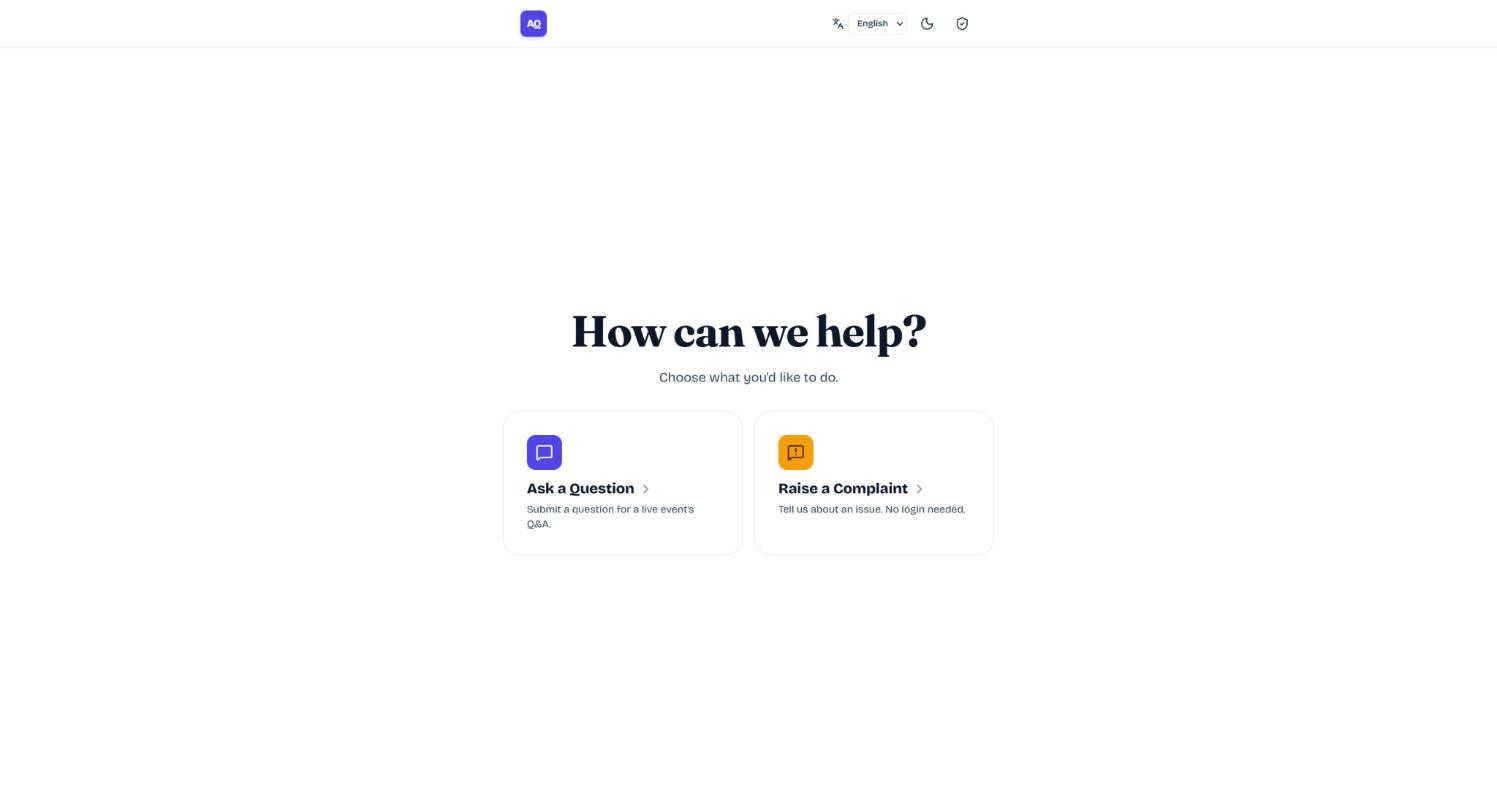
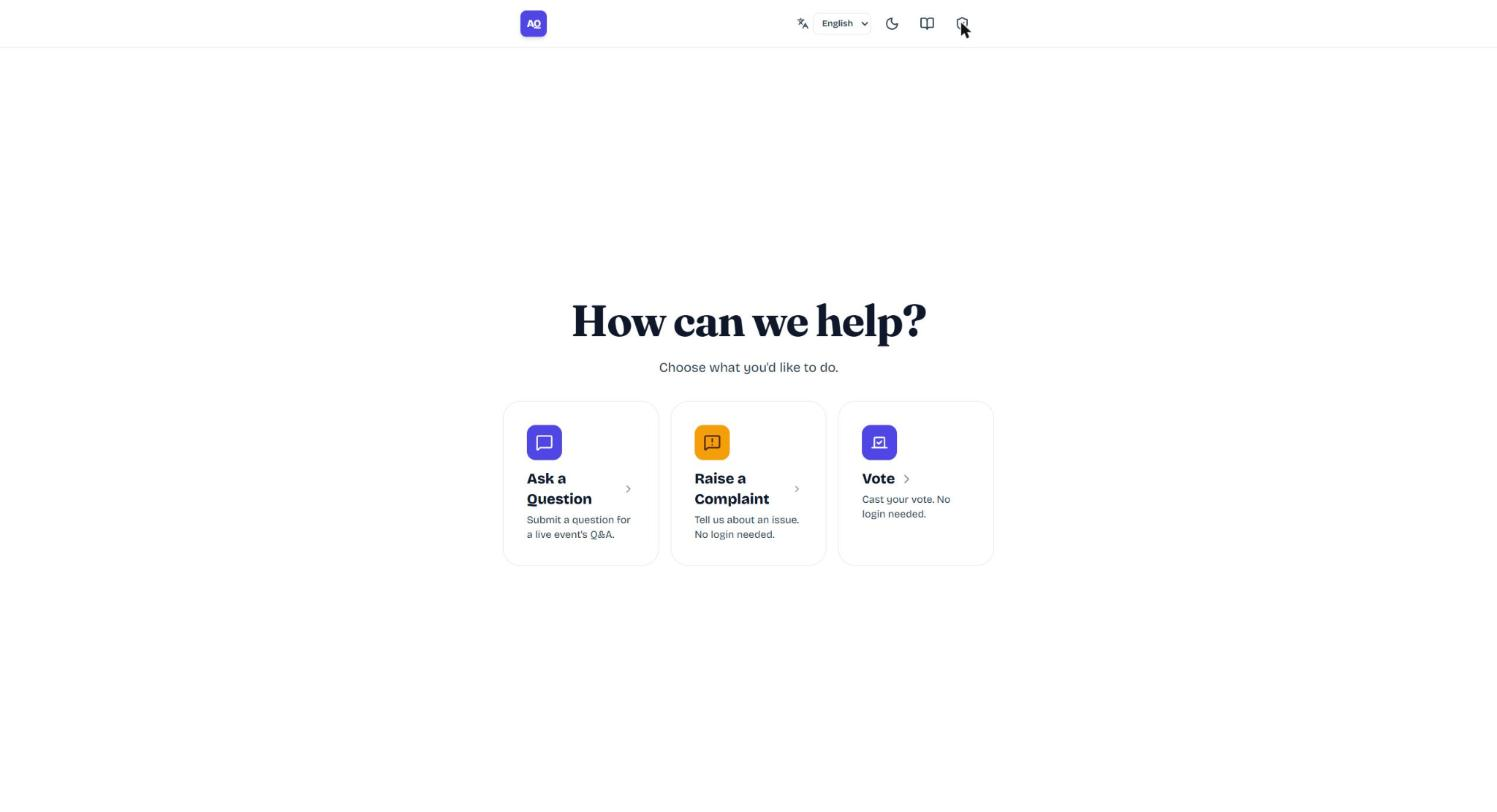
docs: add voting to the guide, fix one-way Stage cross-link
- New "Voting" section in /guide with real screenshots covering all 4
  modules (Manage Votings, the public vote screen, Vote Monitor flagging
  a shared-device vote, and the live Vote Results Stage). Overview section
  and its chooser screenshot updated for the chooser's third card.
- Added a link from the Q&A Stage view to /vote/stage -- it previously
  only worked the other way around.

Changed region(s): [[0.338, 0.5234, 0.6453, 0.6773], [0.3687, 0.3695, 0.6146, 0.4926], [0.5531, 0.0, 0.5838, 0.0308]]

diff --git a/src/components/GuidePage.tsx b/src/components/GuidePage.tsx
@@ -14,7 +14,8 @@ import React, { useEffect, useRef, useState } from 'react';
 import { Link } from 'react-router-dom';
 import {
   ArrowLeft, Sun, Moon, X, ZoomIn,
-  Compass, MessageSquare, MessageSquareWarning, ShieldCheck, Mic, Monitor, UserCog, LayoutDashboard
+  Compass, MessageSquare, MessageSquareWarning, ShieldCheck, Mic, Monitor, UserCog, LayoutDashboard,
+  Vote as VoteIcon
 } from 'lucide-react';
 
 interface Shot {
@@ -38,10 +39,10 @@ const SECTIONS: Section[] = [
     id: 'overview',
     icon: <Compass className="w-5 h-5" />,
     title: 'Overview',
-    subtitle: 'One link, two jobs: asking a question, or raising a complaint.',
+    subtitle: 'One link, three jobs: asking a question, raising a complaint, or voting.',
     steps: [
       'Everyone starts at the same place: the chooser screen.',
-      'From there, pick "Ask a Question" for a live event’s Q&A, or "Raise a Complaint" to report an issue — no login needed for either.',
+      'From there, pick "Ask a Question" for a live event’s Q&A, "Raise a Complaint" to report an issue, or "Vote" to take part in whatever poll is currently open — no login needed for any of them.',
       'Staff (moderator, panel, stage, admin, management) sign in from within those same screens to reach their own view.'
     ],
     shots: [{ src: '/guide/chooser.jpg', alt: 'Chooser screen', caption: 'The chooser screen — everyone’s starting point' }]
@@ -81,6 +82,25 @@ const SECTIONS: Section[] = [
     ]
   },
   {
+    id: 'voting',
+    icon: <VoteIcon className="w-5 h-5" />,
+    title: 'Voting',
+    subtitle: 'E.g. picking a theme song — no account needed to vote, plus a staff setup, review, and live results screen.',
+    steps: [
+      'An admin sets this up first, from "Manage Votings" in the Moderator screen: write a question, add 2 or more options, then open it to the public. More than one voting can be open at once.',
+      'Choose "Vote" from the chooser — with one voting open it goes straight to the options, with more than one it asks which poll first.',
+      'Pick an option, then confirm with a name, phone number, and date of birth. One vote per phone number per voting — changing the name (even just the case) doesn’t open a second vote.',
+      'Staff review every vote in "Vote Monitor," where suspicious patterns (e.g. the same device behind several different phone numbers) are auto-flagged for a human to invalidate if they turn out to be fake.',
+      'The results project live, bar by bar, on the Vote Results Stage screen (/vote/stage) — a link next to the Q&A Stage’s fullscreen button jumps straight there.'
+    ],
+    shots: [
+      { src: '/guide/voting-manager.jpg', alt: 'Manage Votings', caption: 'Admin: setting up a voting and watching its live counts' },
+      { src: '/guide/vote-options.jpg', alt: 'Vote options', caption: 'The public vote screen — pick an option, no login' },
+      { src: '/guide/vote-monitor.jpg', alt: 'Vote Monitor', caption: 'Staff review: a shared-device vote auto-flagged for a closer look' },
+      { src: '/guide/vote-stage.jpg', alt: 'Vote Results Stage', caption: 'Live results, projected for the room' }
+    ]
+  },
+  {
     id: 'moderator',
     icon: <ShieldCheck className="w-5 h-5" />,
     title: 'Moderator',
@@ -89,7 +109,7 @@ const SECTIONS: Section[] = [
       'Sign in from the Ask a Question screen (Login, top right).',
       'The Review Inbox lists every pending question across all events.',
       'Approve, reject, star (priority), edit, or delete a question — or send it straight to the panel queue.',
-      'Also manages events, topic categories, and event branding (logo/banners) from the same dashboard.'
+      'Also manages events, topic categories, event branding, and (with Vote Monitor) reviewing cast votes — all from the same dashboard. Setting up a voting itself is admin-only; see Voting above.'
     ],
     shots: [{ src: '/guide/moderator-inbox.jpg', alt: 'Moderator Review Inbox', caption: 'The Review Inbox — the moderator’s main workspace' }]
   },

diff --git a/src/components/StageView.tsx b/src/components/StageView.tsx
@@ -1,8 +1,9 @@
 import React, { useState, useEffect } from 'react';
 import { useTranslation } from 'react-i18next';
+import { Link } from 'react-router-dom';
 import { QRCodeSVG } from 'qrcode.react';
 import { Question, Category, ConferenceEvent } from '../types';
-import { Sparkles, Monitor, Maximize2, Radio, Clock } from 'lucide-react';
+import { Sparkles, Monitor, Maximize2, Radio, Clock, Vote as VoteIcon } from 'lucide-react';
 import { getLocalizedText } from '../i18n/localizedContent';
 
 interface StageViewProps {
@@ -114,13 +115,22 @@ export const StageView: React.FC<StageViewProps> = ({
           </div>
 
           {/* Display Controls */}
-          <button
-            onClick={toggleFullscreen}
-            className="p-3 rounded-xl bg-indigo-600 hover:bg-indigo-500 text-white font-bold text-xs shadow-md transition shrink-0"
-            title="Toggle Fullscreen Presentation"
-          >
-            <Maximize2 className="w-4 h-4" />
-          </button>
+          <div className="flex items-center gap-2 shrink-0">
+            <Link
+              to="/vote/stage"
+              className="p-3 rounded-xl bg-surface-secondary hover:bg-surface-hover text-secondary border border-divider font-bold text-xs shadow-md transition"
+              title="Switch to Vote Results Stage"
+            >
+              <VoteIcon className="w-4 h-4" />
+            </Link>
+            <button
+              onClick={toggleFullscreen}
+              className="p-3 rounded-xl bg-indigo-600 hover:bg-indigo-500 text-white font-bold text-xs shadow-md transition"
+              title="Toggle Fullscreen Presentation"
+            >
+              <Maximize2 className="w-4 h-4" />
+            </button>
+          </div>
         </div>
 
         {/* Audience Join QR Code & Short Code Banner -- always centered on the

diff --git a/TODO.md b/TODO.md
@@ -12,7 +12,7 @@ Things that have been flagged during development but intentionally not acted on 
 
 - **SMS/OTP phone verification**: would make the phone-number dedup airtight against someone using a second real number, same prerequisite as the WhatsApp item above -- needs a paid SMS provider account set up first, not a code blocker. Not started; the current per-phone `UNIQUE` constraint is the only hard anti-duplicate-vote check.
 - **Hindi/Odia translation is question-only.** Option labels (participant/song names) stay English-only by design (see the approved design artifact's Open Question 4) -- extend the same way if a future voting wants translated option labels too.
-- **`/vote/stage`'s "Switch to Q&A Stage" link goes to `/ask`, not directly to the Stage tab.** The existing Q&A Stage view has no addressable URL of its own (it's a tab inside the main app shell, reached after picking an event) -- a follow-up could add one if staff find re-navigating from `/ask` each time annoying.
+- **`/vote/stage`'s "Switch to Q&A Stage" link goes to `/ask`, not directly to the Stage tab**, and the Q&A Stage view's own new link to `/vote/stage` is a one-way jump too (no "back" once there beyond browser back). Neither Stage view has an addressable URL for "the currently selected event's Stage tab" to link to directly -- the Q&A Stage view is a tab inside the main app shell, reached after picking an event. A follow-up could add one if staff find the round trip annoying.
 
 ## In progress — resume when Gemini Implementer is back
 

diff --git a/CHANGELOG.md b/CHANGELOG.md
@@ -2,6 +2,11 @@
 
 All notable changes to this project will be documented in this file.
 
+## [2026-10-17] - Voting Added to the Guide, Stage Cross-Link Fix
+
+- **`/guide` now documents the voting feature**: a new "Voting" section (between Raise & Track and Moderator, matching the `/root` chooser's card order) walks through all 4 modules with real screenshots -- admin setup in Manage Votings, the public vote screen, Vote Monitor flagging a shared-device vote, and the live Vote Results Stage. The Overview section and its chooser screenshot now reflect three options instead of two, and the Moderator section notes Vote Monitor alongside its other review tools.
+- **Fixed a one-way link between the two Stage screens**: the Q&A Stage view had no way to jump to the new Vote Results Stage (`/vote/stage`) -- only the reverse direction existed. Added a small vote icon next to the Q&A Stage's fullscreen button that jumps straight there.
+
 ## [2026-10-17] - Theme Song Voting (4 modules)
 
 - **New voting feature, designed and approved via a shared Artifact review before any code was written** (see the design doc's Open Questions thread for the decisions behind every choice below). Four modules:
